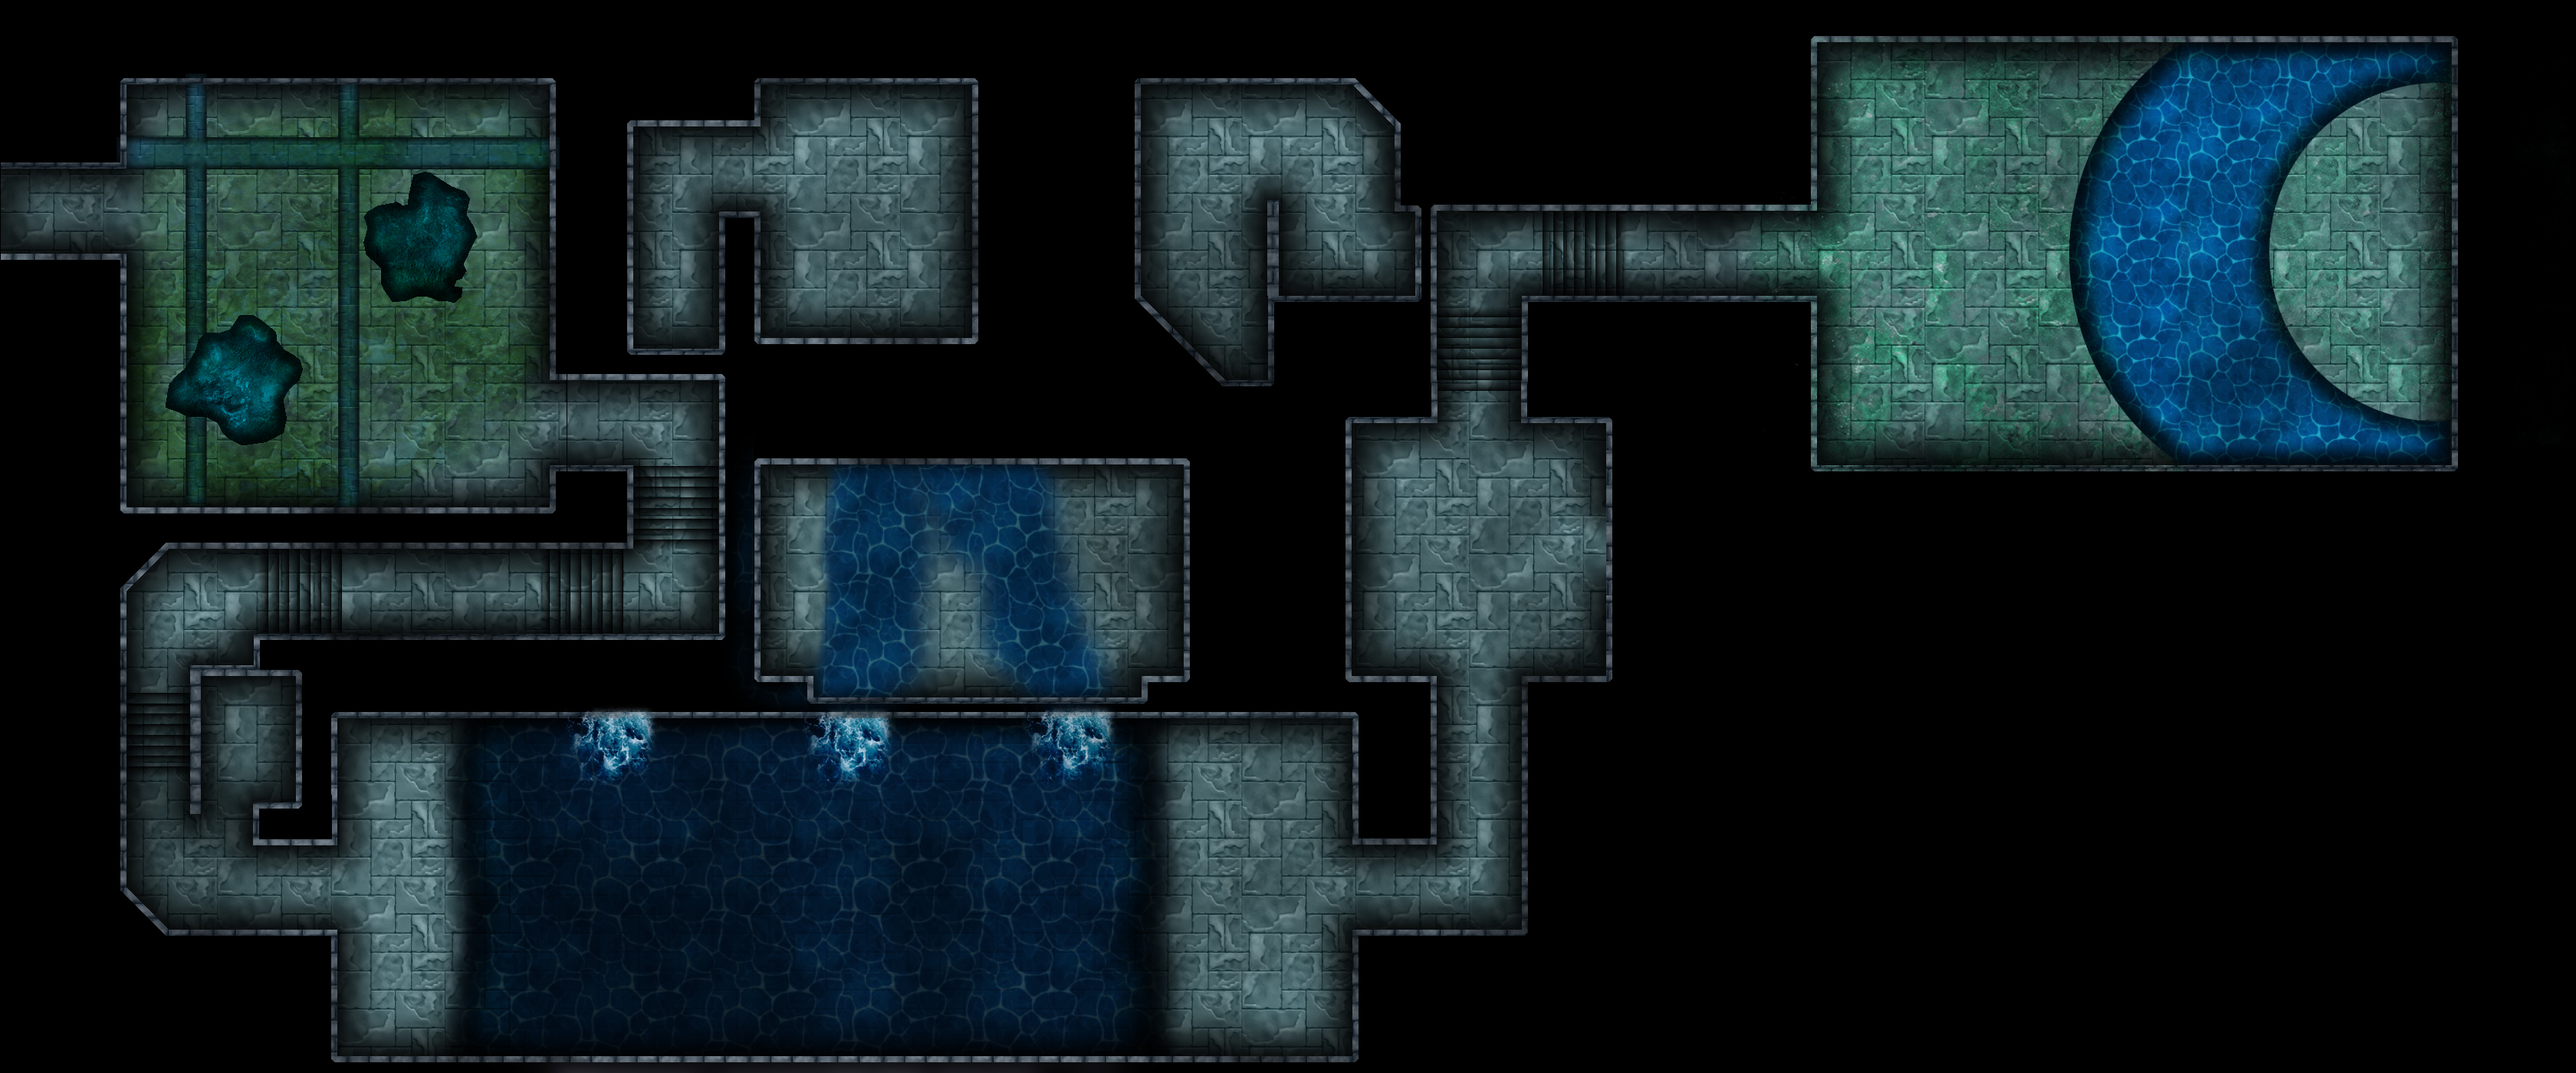
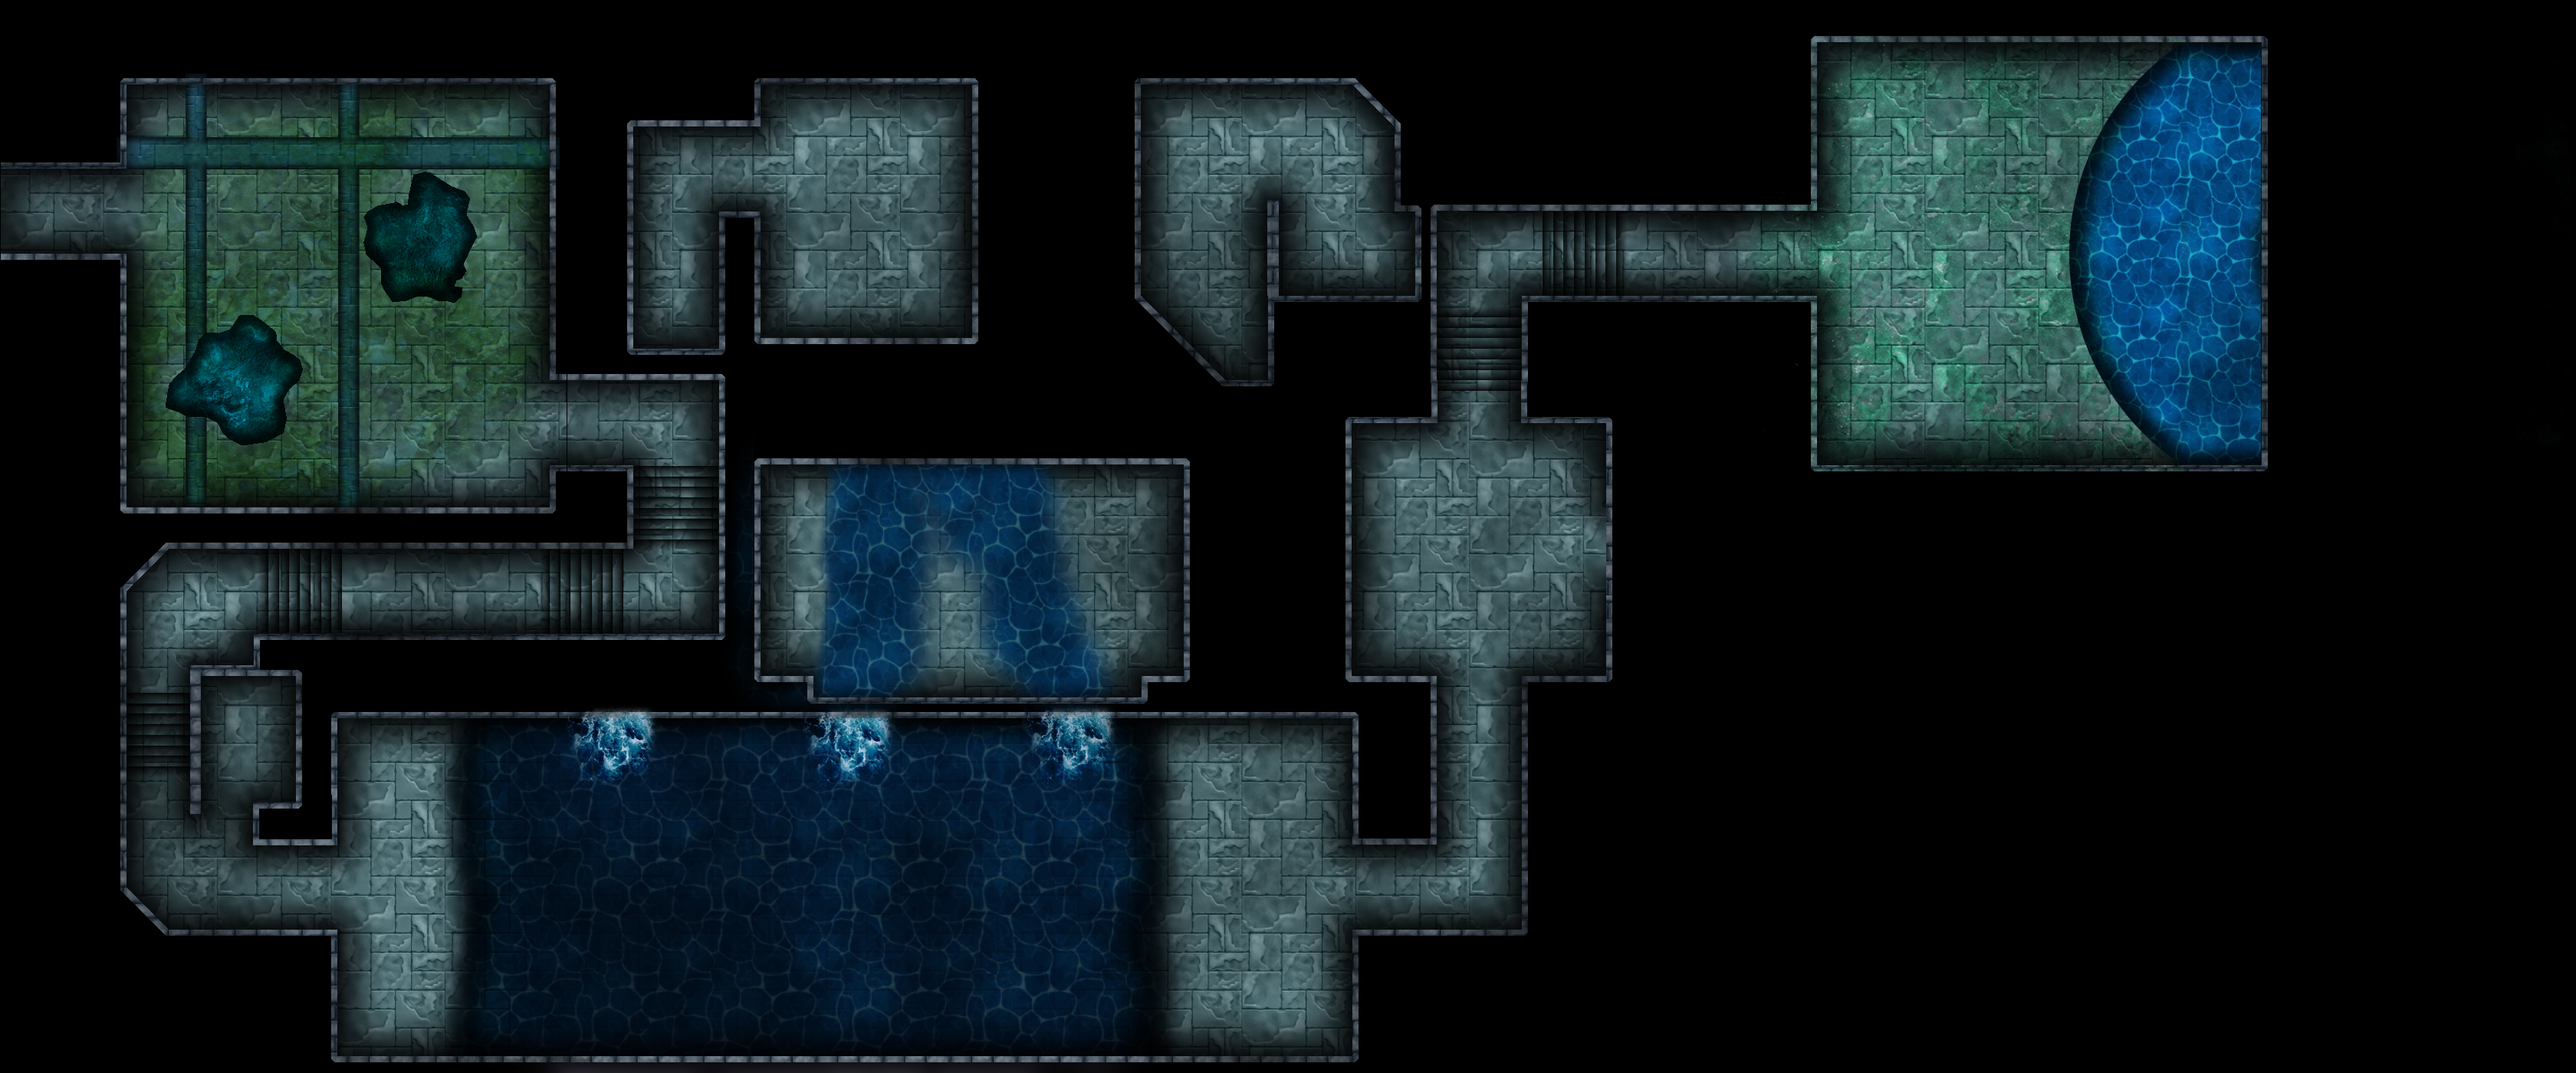
"agregado mapa completo con seccion coloreada"

Changed region(s): [[0.875, 0.0307, 0.9688, 0.4607]]

diff --git a/Cliente/js/juego.js b/Cliente/js/juego.js
@@ -62,7 +62,7 @@ Juego.buclePrincipal = function() {
 };
 
 Juego.update = function() {
-  console.log("x: "+this.jugador.x+" y:"+this.jugador.y)
+  // console.log("x: "+this.jugador.x+" y:"+this.jugador.y)
   // this.calcularAtaques();
   // this.moverEnemigos();
 }
@@ -82,29 +82,58 @@ Juego.dibujar = function() {
   for (var i = 0; i < this.mapa.length; i++) {
     if (this.pasoPorLaPuerta(this.mapa[i].numeroPuerta)) {
       // Borrar el fotograma actual
-        Dibujante.borrarAreaDeJuego();
-        //Se pinta la imagen de fondo segun el estado del juego
-        this.dibujarFondo(this.mapa[i+1].sprite);
-
-        Dibujante.dibujarEntidad(this.jugador);
-        this.mapaActual++;
-this.posicionarJugador(this.mapa[i+1].numeroMapa, this.jugador.x, this.jugador.y);
-        // console.log("se");
+      Dibujante.borrarAreaDeJuego();
+      //Se pinta la imagen de fondo segun el estado del juego
+      this.dibujarFondo(this.mapa[i+1].sprite);
+      this.posicionarJugador(this.mapa[i+1].numeroMapa);
+      Dibujante.dibujarEntidad(this.jugador);
+      this.mapaActual++;
 
     }else {
       if (i == this.mapaActual) {
         Dibujante.borrarAreaDeJuego();
+        this.resaltarSeccionMapa(this.mapa[i].numeroMapa);
         this.dibujarFondo(this.mapa[i].sprite);
-
         Dibujante.dibujarEntidad(this.jugador);
-        // this.posicionarJugador(this.mapa[i].numeroMapa);
-        // console.log("no");
+
       }
     }
   };
 
   // this.dibujarFondo();
 
+};
+
+Juego.resaltarSeccionMapa = function(numeroMapa) {
+  console.log(numeroMapa);
+  switch (numeroMapa) {
+    case 1:
+      document.getElementById('mapaCompleto').src = "images/mapaSeccion1.png";
+      break;
+    case 2:
+      document.getElementById('mapaCompleto').src = "images/mapaSeccion2.png";
+      break;
+    case 3:
+      document.getElementById('mapaCompleto').src = "images/mapaSeccion3.png";
+      break;
+    case 4:
+      document.getElementById('mapaCompleto').src = "images/mapaSeccion4.png";
+      break;
+    case 5:
+      document.getElementById('mapaCompleto').src = "images/mapaSeccion3.png";
+      break;
+    case 6:
+      document.getElementById('mapaCompleto').src = "images/mapaSeccion5.png";
+      break;
+    case 7:
+      document.getElementById('mapaCompleto').src = "images/mapaSeccion6.png";
+      break;
+    case 8:
+      document.getElementById('mapaCompleto').src = "images/mapaSeccion7.png";
+      break;
+    default:
+
+  }
 };
 
 Juego.pasoPorLaPuerta = function(numeroPuerta) {
@@ -130,7 +159,7 @@ Juego.pasoPorLaPuerta = function(numeroPuerta) {
   }
 };
 
-Juego.posicionarJugador = function(numeroMapa, posicionJugadorX, posicionJugadorY) {
+Juego.posicionarJugador = function(numeroMapa) {
   console.log(numeroMapa);
 switch (numeroMapa) {
   case 1:

diff --git a/Cliente/index.html b/Cliente/index.html
@@ -15,7 +15,7 @@
   </head>
   <body>
     <div class="row">
-      <img src="images/mapa.png" id="mapaCompleto">
+      <img src="images/mapaSeccion1.png" id="mapaCompleto">
     </div>
     <div class="container">
       <div class="row" id="contenedor"></div>
